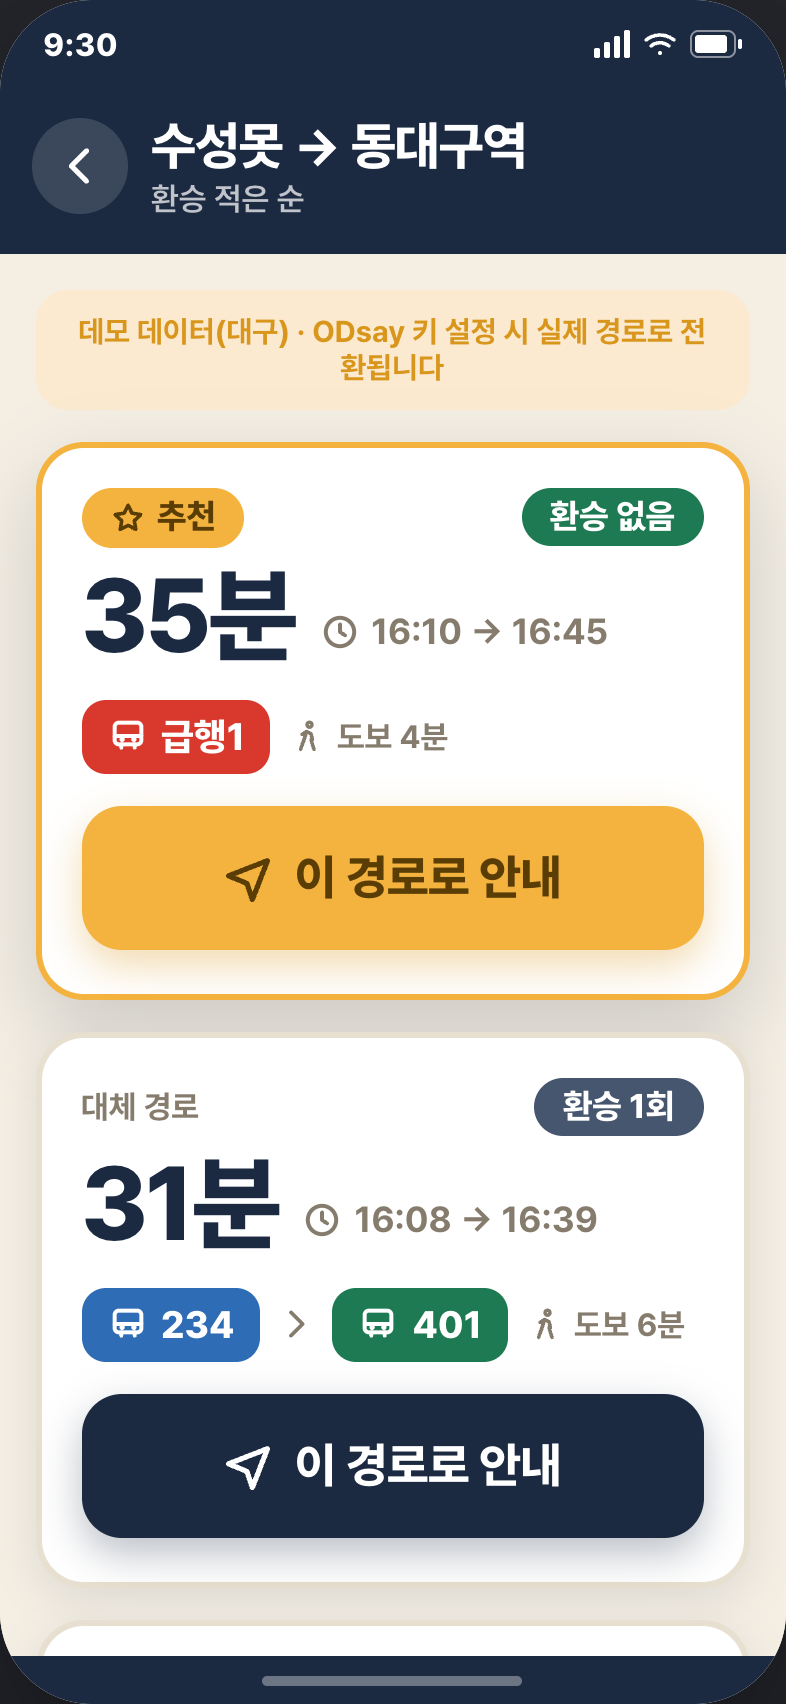
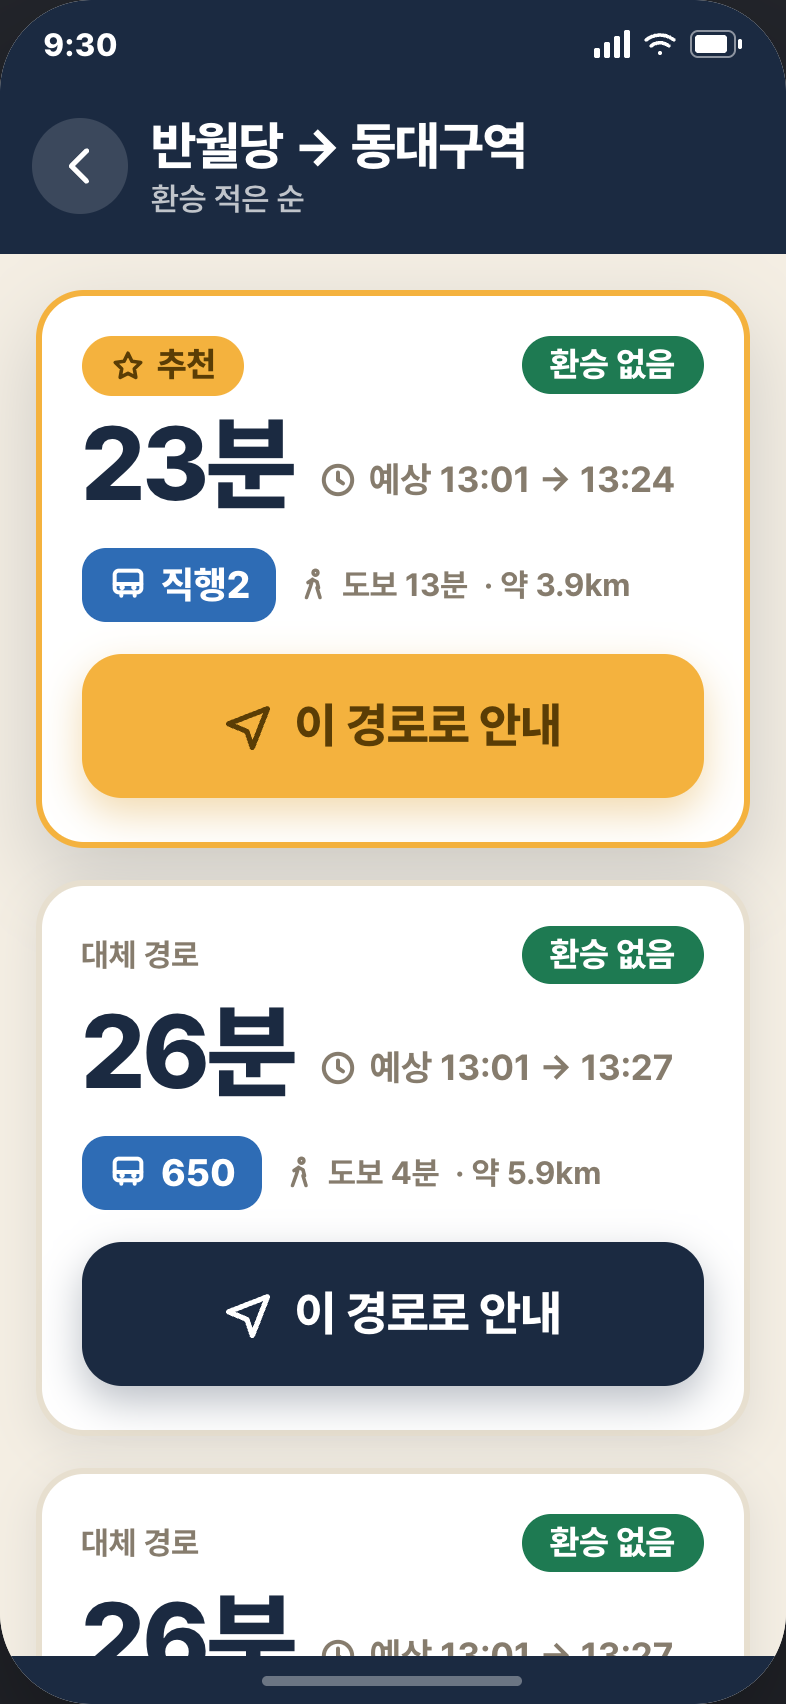
docs: 제출 전 QA — 문서·다이어그램·스크린샷을 앱과 정합
- class-diagram: firePassed·announce·useWakeLock·passRadius/isPassed·minAlight
  메소드 반영(.mmd) + PNG 재렌더
- 스크린샷 갱신: routeRecommendation(거리·예상 시각 표시),
  navigatioGuide(예상 도착·실시간 GPS 배너) 재촬영
- Analysis: 데이터 모델 역 정보(CID·정류장 구분) 정정, alt 텍스트 수정,
  References에 Screen Wake Lock·WAI-ARIA 추가
- Design: References에 Screen Wake Lock·WAI-ARIA 추가
- Conceptualization: Revision 0.0.2(구현 제약 보완) 추가

diff --git a/Analysis_22212081_문찬주.md b/Analysis_22212081_문찬주.md
@@ -130,7 +130,7 @@
 
 ### 4) 데이터 모델
 
-- **역 정보:** 역 이름, 역 ID, 위도/경도, 지역(도/구) 정보
+- **역 정보:** 역 이름, 역 ID, 위도/경도, 지역 코드(ODsay CID), 정류장 구분(버스/지하철)
 - **입력 필드:** 사용자가 입력하는 텍스트, 자동완성 제안 목록
 - **API 응답 형식 예시:** 역 목록 배열 (예: `[{id: "123", name: "역삼역", lat: 37.5, lng: 127.0, cls: "subway", region: 1000}]` — `cls`는 버스/지하철 구분, `region`은 ODsay 도시코드 CID)
 
@@ -191,7 +191,7 @@
   - 진동과 음성 안내를 함께 제공하여 사용자가 즉시 하차 준비를 할 수 있도록 돕는다.
   
 - **Screen 4-2 : Arrival Alert**
-  ![Arrival Alarm](images/routeAlert.png)
+  ![Arrival Alert](images/routeAlert.png)
   - 최종 도착시 표시되는 알림 화면.
   - 화면 전체가 적색으로 변환, 큰 글씨와 색상 변화로 시각적 주의를 유도한다.
   - 확인 버튼을 통해 최종 경로 종료를 선언 할 수 있다.
@@ -216,3 +216,5 @@
 2. **W3C Geolocation API:** 실시간 좌표 수집 표준 명세
 3. **Google Web Storage:** 최근 검색 기록 및 사용자 설정 저장 방식 참조
 4. **MDN Web Docs:** Vibration API를 활용한 촉각 피드백 구현 지침
+5. **MDN Web Docs:** Screen Wake Lock API — 안내 중 화면 유지
+6. **W3C WAI-ARIA:** `aria-live` 라이브 영역 — 스크린리더 알림 접근성

diff --git a/Design_22212081_문찬주.md b/Design_22212081_문찬주.md
@@ -195,4 +195,6 @@
 2. **W3C – Geolocation API** — 실시간 좌표 수집 표준 명세. https://www.w3.org/TR/geolocation-API/
 3. **MDN Web Docs – Vibration API** — 촉각 피드백 구현 지침. https://developer.mozilla.org/docs/Web/API/Vibration_API
 4. **Google Web Storage** — 최근 검색 기록 및 사용자 설정 저장 방식. https://developers.google.com/web/fundamentals/instant-and-offline/web-storage
-5. **SPARX SYSTEMS – State Machine Diagram Practice.** http://www.sparxsystems.com.au/resources/uml2_tutorial/uml2_statediagram.html
+5. **MDN Web Docs – Screen Wake Lock API** — 안내 중 화면 유지 구현 지침. https://developer.mozilla.org/docs/Web/API/Screen_Wake_Lock_API
+6. **W3C – WAI-ARIA `aria-live`** — 스크린리더 라이브 영역 접근성 명세. https://www.w3.org/TR/wai-aria-1.2/#aria-live
+7. **SPARX SYSTEMS – State Machine Diagram Practice.** http://www.sparxsystems.com.au/resources/uml2_tutorial/uml2_statediagram.html

diff --git a/Conceptualization_22212081_문찬주.md b/Conceptualization_22212081_문찬주.md
@@ -7,6 +7,7 @@
 | Revision date | Version # | Description | Author |
 |--------------|----------|------------|--------|
 | 2026-04-19 | 0.0.1 | 초기 개념화 문서 작성 완료 | 문찬주 |
+| 2026-06-12 | 0.0.2 | 구현 제약 보완(화면 유지·지나침 보강 안내 반영) | 문찬주 |
 
 ---
 
